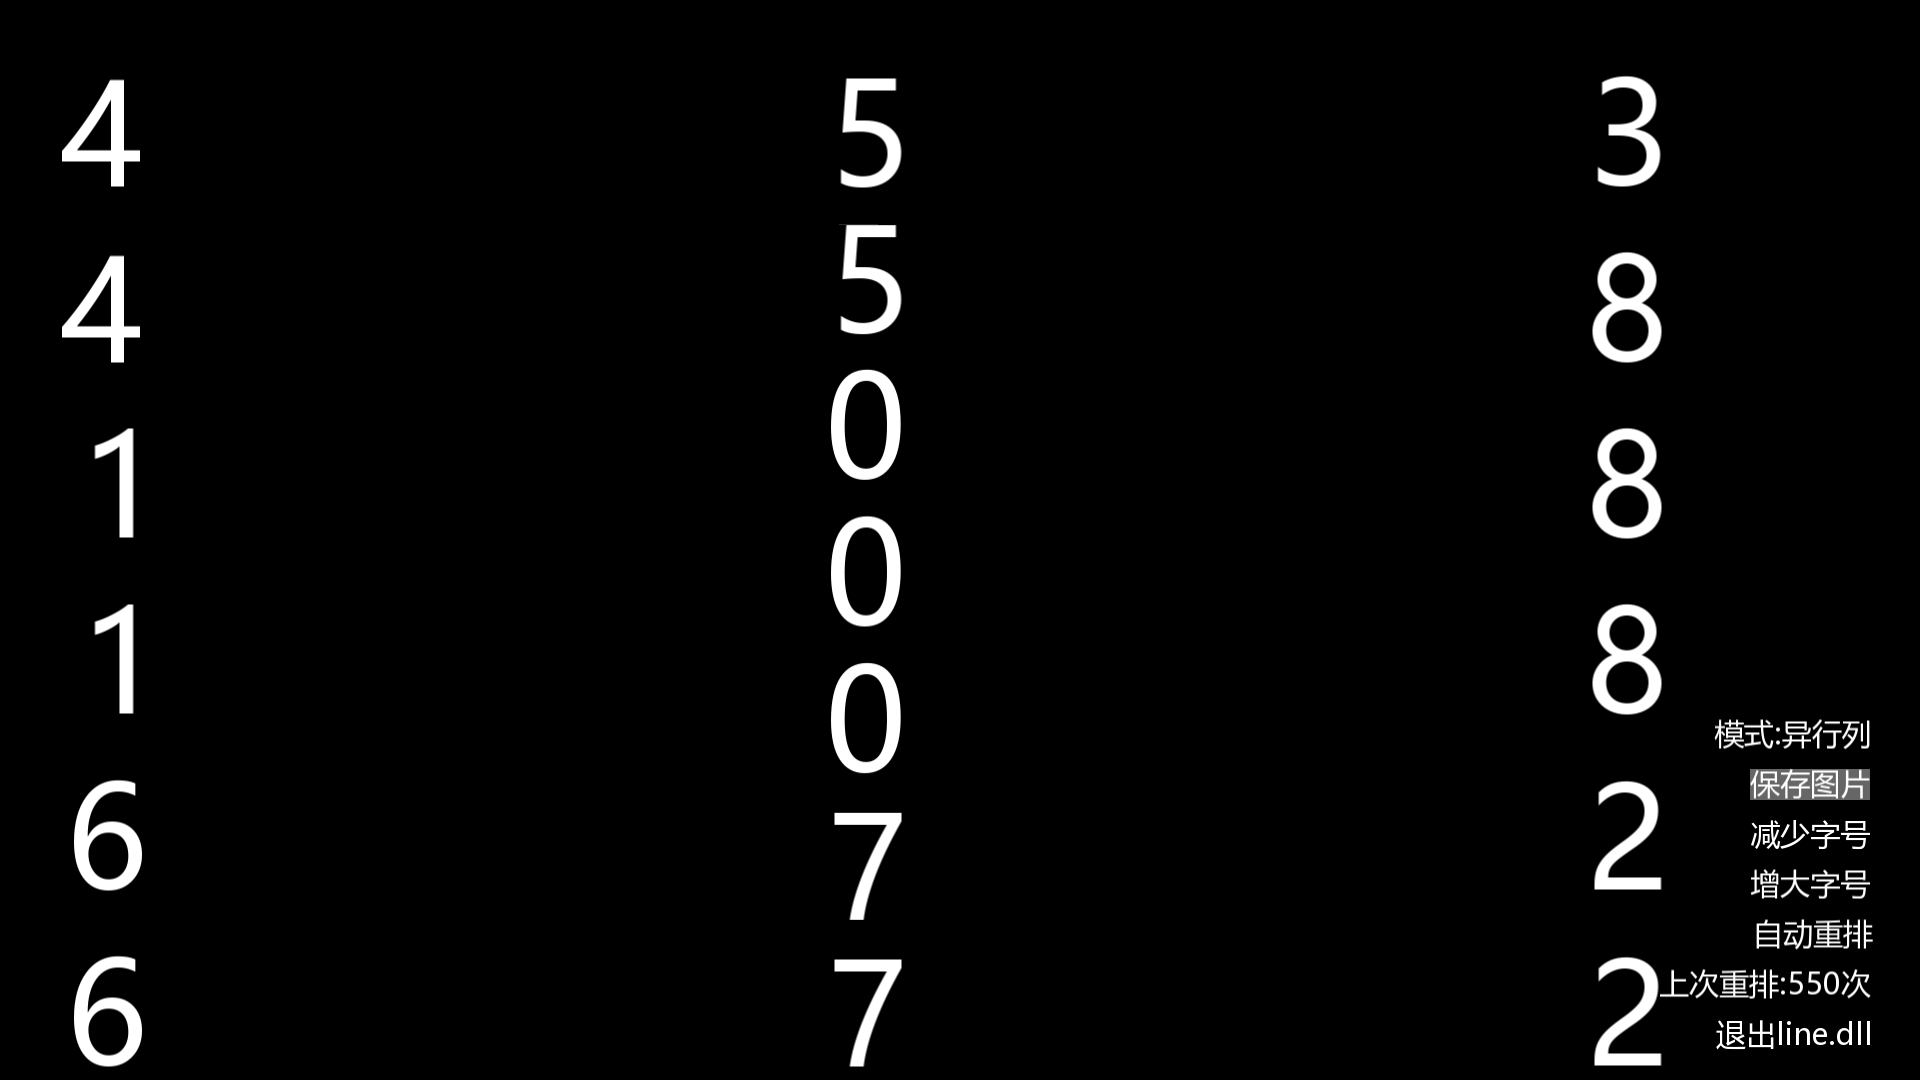
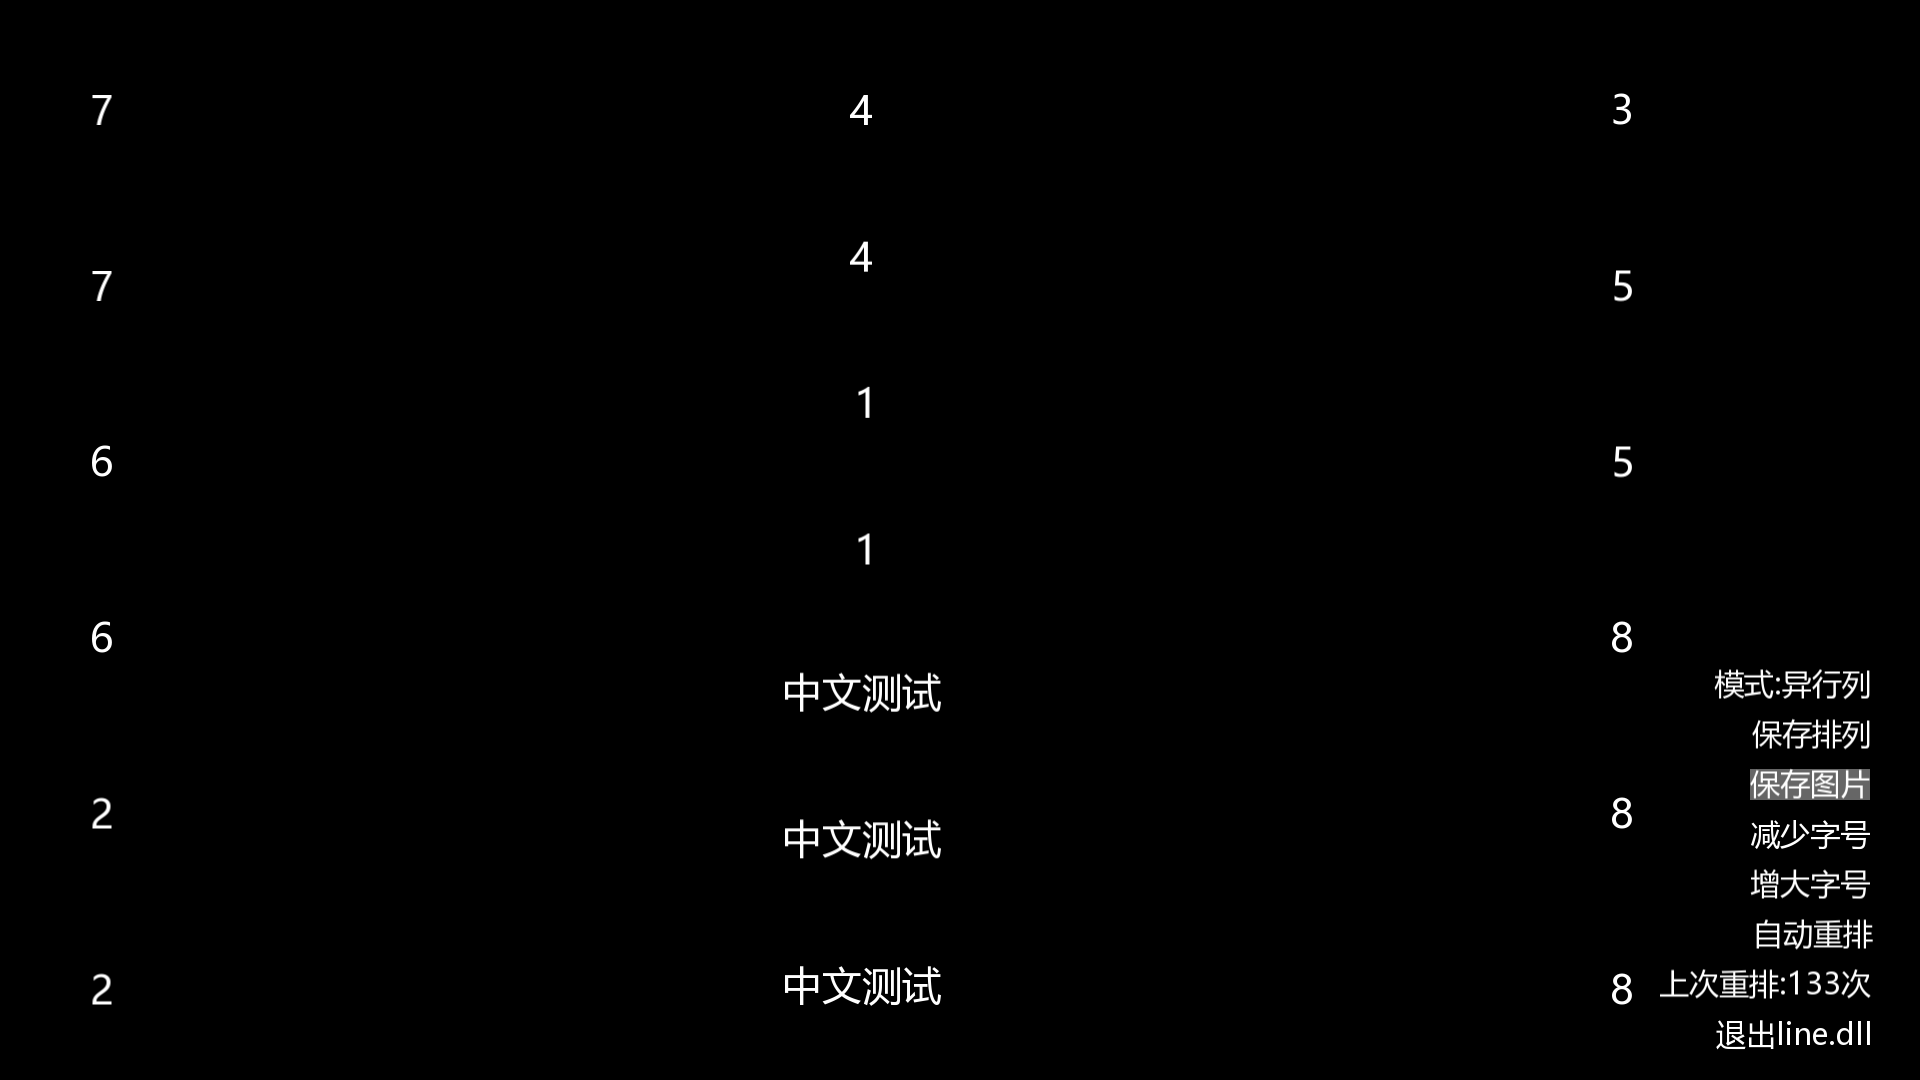
添加保存读取功能

diff --git a/分行/file.cpp b/分行/file.cpp
@@ -1,0 +1,80 @@
+#include "file.h"
+
+void File::open(const char* path)
+{
+	file.open(path, std::ios::in | std::ios::out | std::ios::binary);
+}
+
+void File::addBE()
+{
+	file.put(0xFE);
+	file.put(0xFF);
+}
+
+void File::ignore(std::streamsize count)
+{
+	file.ignore(count);
+}
+
+void File::close()
+{
+	file.close();
+}
+
+wchar_t File::get()
+{
+	return (wchar_t)((file.get() << 8) + file.get());
+}
+
+size_t File::getline(wchar_t buffer[], size_t bufferSize, wchar_t wchar)
+{
+	size_t pos = 0;
+	while (pos < bufferSize)
+	{
+		buffer[pos] = get();
+		if (buffer[pos] == wchar)
+		{
+			buffer[pos] = L'\0';
+			break;
+		}
+		pos++;
+	}
+
+	return pos;
+}
+
+void File::put(wchar_t wchar)
+{
+	file.put(wchar >> 8);
+	file.put(wchar & 0xFF);
+}
+
+File& File::operator<<(const unsigned char number)
+{
+	wchar_t buffer[10];
+	_itow_s(number, buffer, 10, 10);
+	for (unsigned char i = 0; buffer[i] != L'\0' && i < 10; i++)
+		put(buffer[i]);
+	return *this;
+}
+
+File& File::operator<<(const wchar_t wchar)
+{
+	put(wchar);
+	return *this;
+}
+
+File& File::operator<<(const std::wstring string)
+{
+	for (wchar_t i : string)
+	{
+		put(i);
+	}
+	return *this;
+}
+
+File& File::operator>>(std::wstring string)
+{
+	file >> string;
+	return *this;
+}

diff --git a/分行/set.h b/分行/set.h
@@ -1,5 +1,6 @@
 #include "Button.h"
-#include "deconstructer.h"
+#include "file.h"
+#include <fstream>
 
 constexpr unsigned char CooridinateAllocateStep = 4;
 constexpr unsigned char LineBufferAllocateStep = 8;
@@ -99,6 +100,9 @@ public:
 
 	Point& operator[](unsigned char index);
 
+	friend File& operator<<(File& stream, Line& line);
+	//friend std::wifstream& operator>>(std::wifstream& stream, Line& line);
+
 protected:
 	void exchanged(char deltaNumber);
 
@@ -138,6 +142,10 @@ public:
 	void setPointReserverNumber(unsigned char number);
 	void add(std::wstring name, unsigned char weight = 1);
 	void build();
+
+	void load(const char path[]);
+	void save(const char path[]);
+
 	unsigned short rand(RandRisist randRisist, unsigned short maxTimes = RandMaxTime);
 	void debug();
 

diff --git a/分行/file.h b/分行/file.h
@@ -1,0 +1,25 @@
+#pragma once
+
+#include <fstream>
+
+class File
+{
+public:
+	void open(const char* path);
+	void addBE();
+	void close();
+
+	wchar_t get();
+	size_t getline(wchar_t buffer[], size_t bufferSize, wchar_t wchar = L'\n');
+	void put(wchar_t wchar);
+	void ignore(std::streamsize count = 1);
+
+	File& operator<<(const unsigned char number);
+	File& operator<<(const wchar_t wchar);
+	File& operator<<(const std::wstring string);
+
+	File& operator>>(std::wstring string);
+
+private:
+	std::wfstream file;
+};
